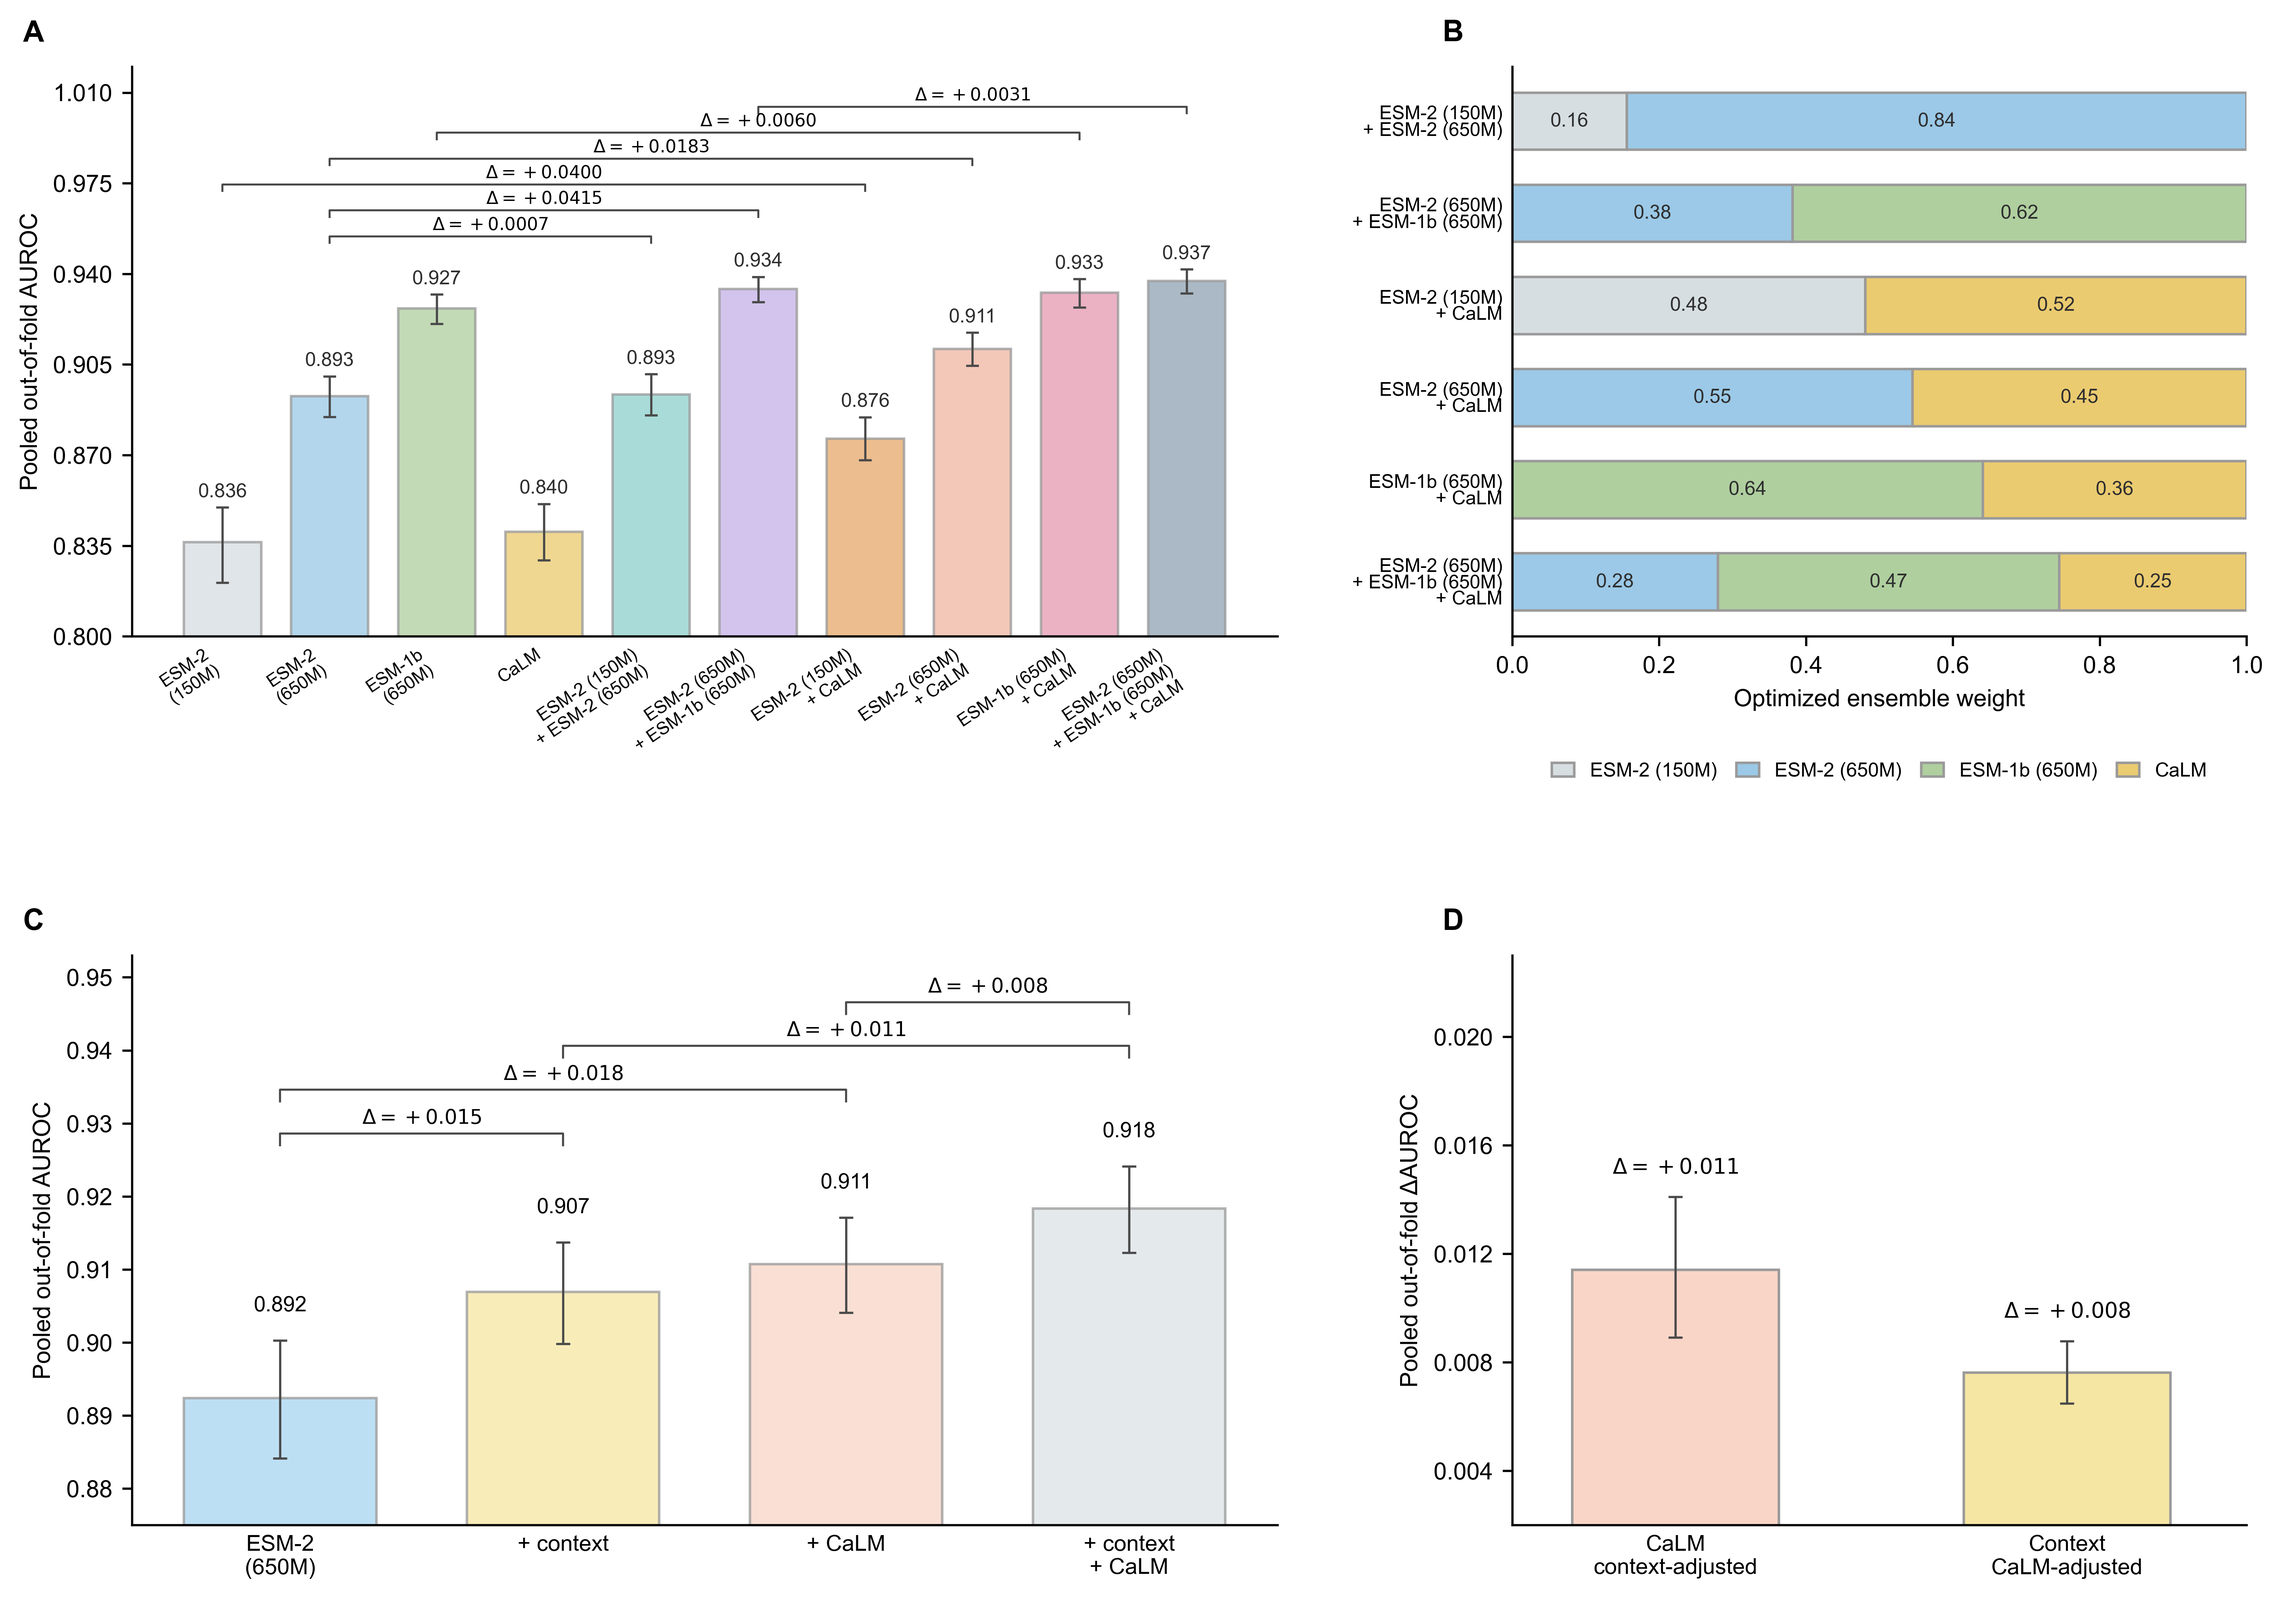
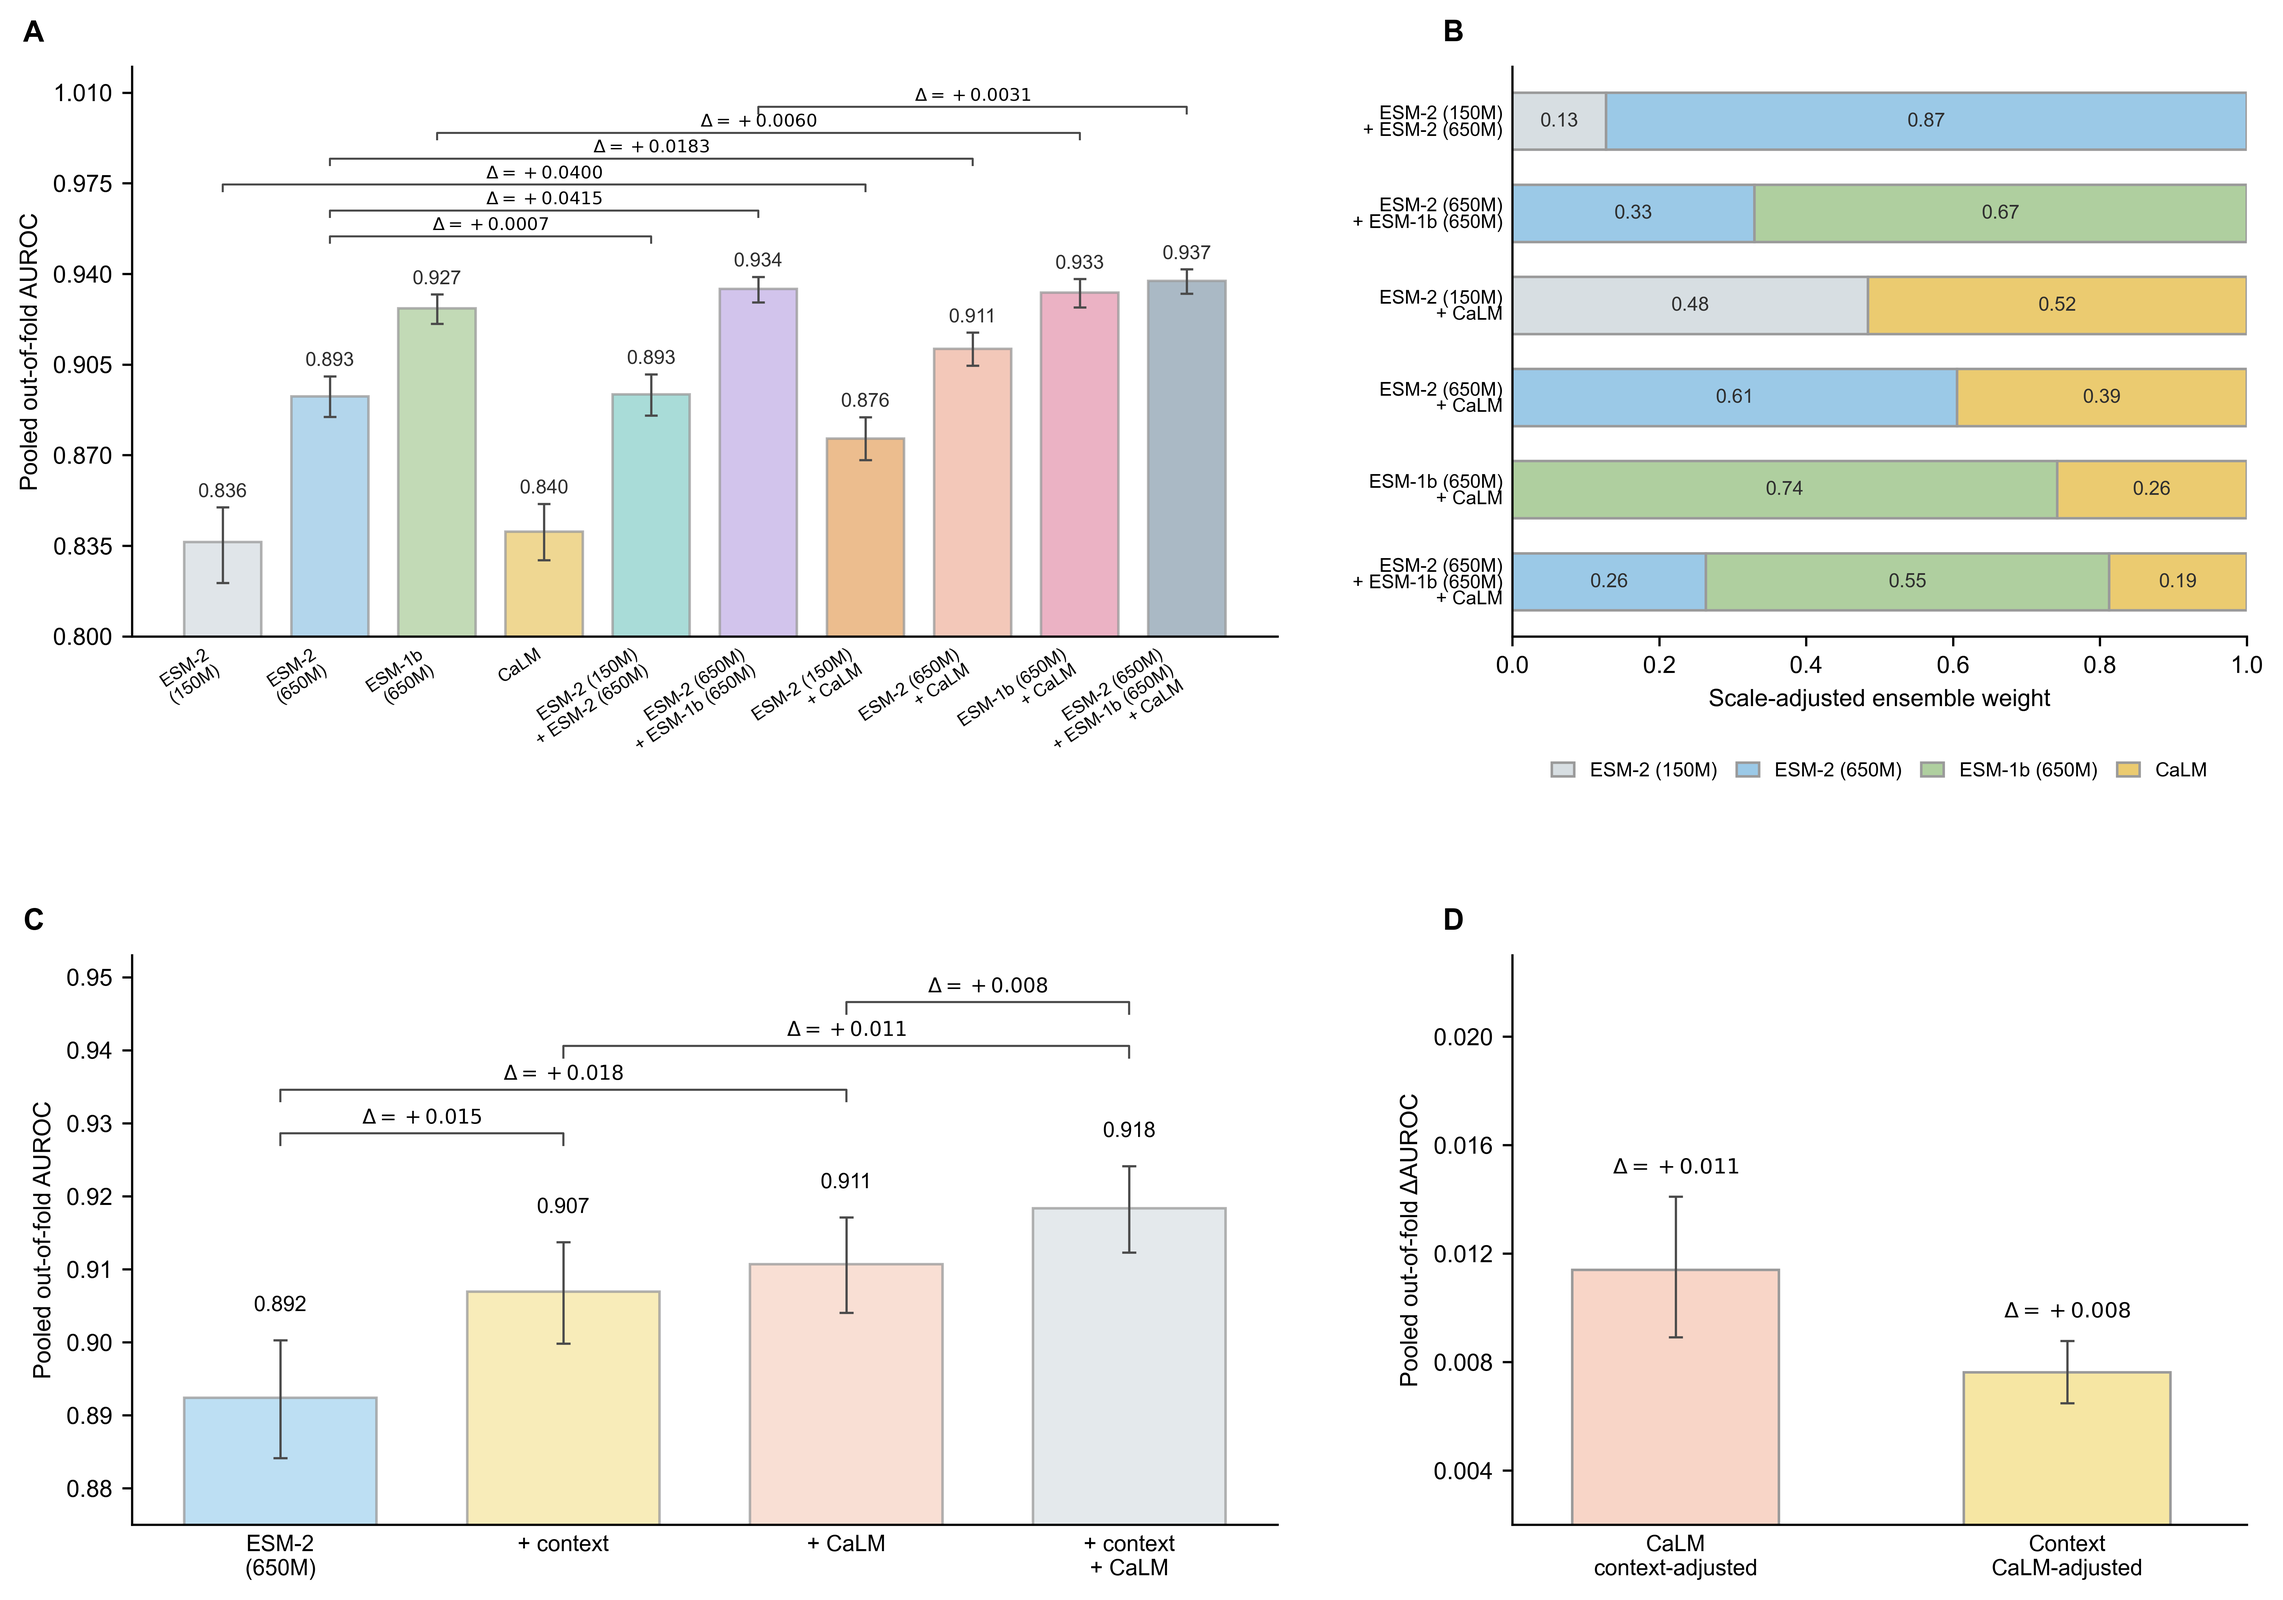
Update Fig2 and ClinMAVE weight tables

diff --git a/plot/main/fig2.py b/plot/main/fig2.py
@@ -232,12 +232,20 @@ def plot_auroc_panel(ax, summary: pd.DataFrame, bootstrap: pd.DataFrame) -> None
 
 
 def plot_weight_panel(ax, folds: pd.DataFrame) -> None:
+    standardized = pd.read_csv(MODEL_DIR / "standardized_equivalent_weights_by_fold.csv")
+    standardized = standardized.pivot_table(
+        index=["ensemble", "fold"], columns="component",
+        values="standardized_equivalent_weight", fill_value=0.0,
+    ).reset_index()
     rows = []
     for model in WEIGHT_ORDER:
-        sub = folds[folds["model"] == model]
+        sub = standardized[standardized["ensemble"] == model]
         row = {"model": model}
+        component_names = {"w_esm2_150m": "ESM-2 150M", "w_esm2_650m": "ESM-2 650M",
+                           "w_esm1b_650m": "ESM-1b 650M", "w_calm": "CaLM"}
         for col, _, _ in WEIGHT_COMPONENTS:
-            row[col] = sub[col].mean()
+            component = component_names[col]
+            row[col] = float(sub[component].mean()) if component in sub.columns else 0.0
         rows.append(row)
     summary = pd.DataFrame(rows)
 
@@ -261,8 +269,8 @@ def plot_weight_panel(ax, folds: pd.DataFrame) -> None:
                 ax.text(start + val / 2, yi, f"{val:.2f}", ha="center", va="center", fontsize=7.0, color="#2F2F2F")
         left += vals
 
-    add_panel_label(ax, "B", "Optimized ensemble weights")
-    ax.set_xlabel("Optimized ensemble weight")
+    add_panel_label(ax, "B", "Scale-adjusted ensemble weights")
+    ax.set_xlabel("Scale-adjusted ensemble weight")
     ax.set_xlim(0, 1)
     ax.set_xticks(np.linspace(0, 1, 6))
     ax.set_yticks(y)

diff --git a/plot/supplementary/s6_s7.py b/plot/supplementary/s6_s7.py
@@ -187,6 +187,18 @@ def main() -> None:
     figure_dir.mkdir(parents=True, exist_ok=True)
 
     folds, summaries = load_results(input_dir)
+    # Replace descriptive raw-weight summaries with scale-adjusted equivalents.
+    standardized_summary = pd.read_csv(input_dir / "fig3_standardized_equivalent_weight_summary.csv")
+    for model, summary in summaries.items():
+        scale = standardized_summary[standardized_summary["model"] == model].set_index(["assay", "case_class"])
+        summary["mean_calm_weight"] = [
+            scale.loc[(a, c), "mean_standardized_equivalent_calm_weight"]
+            for a, c in zip(summary["assay"], summary["case_class"])
+        ]
+        summary["sd_calm_weight"] = [
+            scale.loc[(a, c), "sd_standardized_equivalent_calm_weight"]
+            for a, c in zip(summary["assay"], summary["case_class"])
+        ]
     build_summary_table(folds, summaries).to_csv(
         table_dir / "clinmave_functional_class_results.csv", index=False
     )
